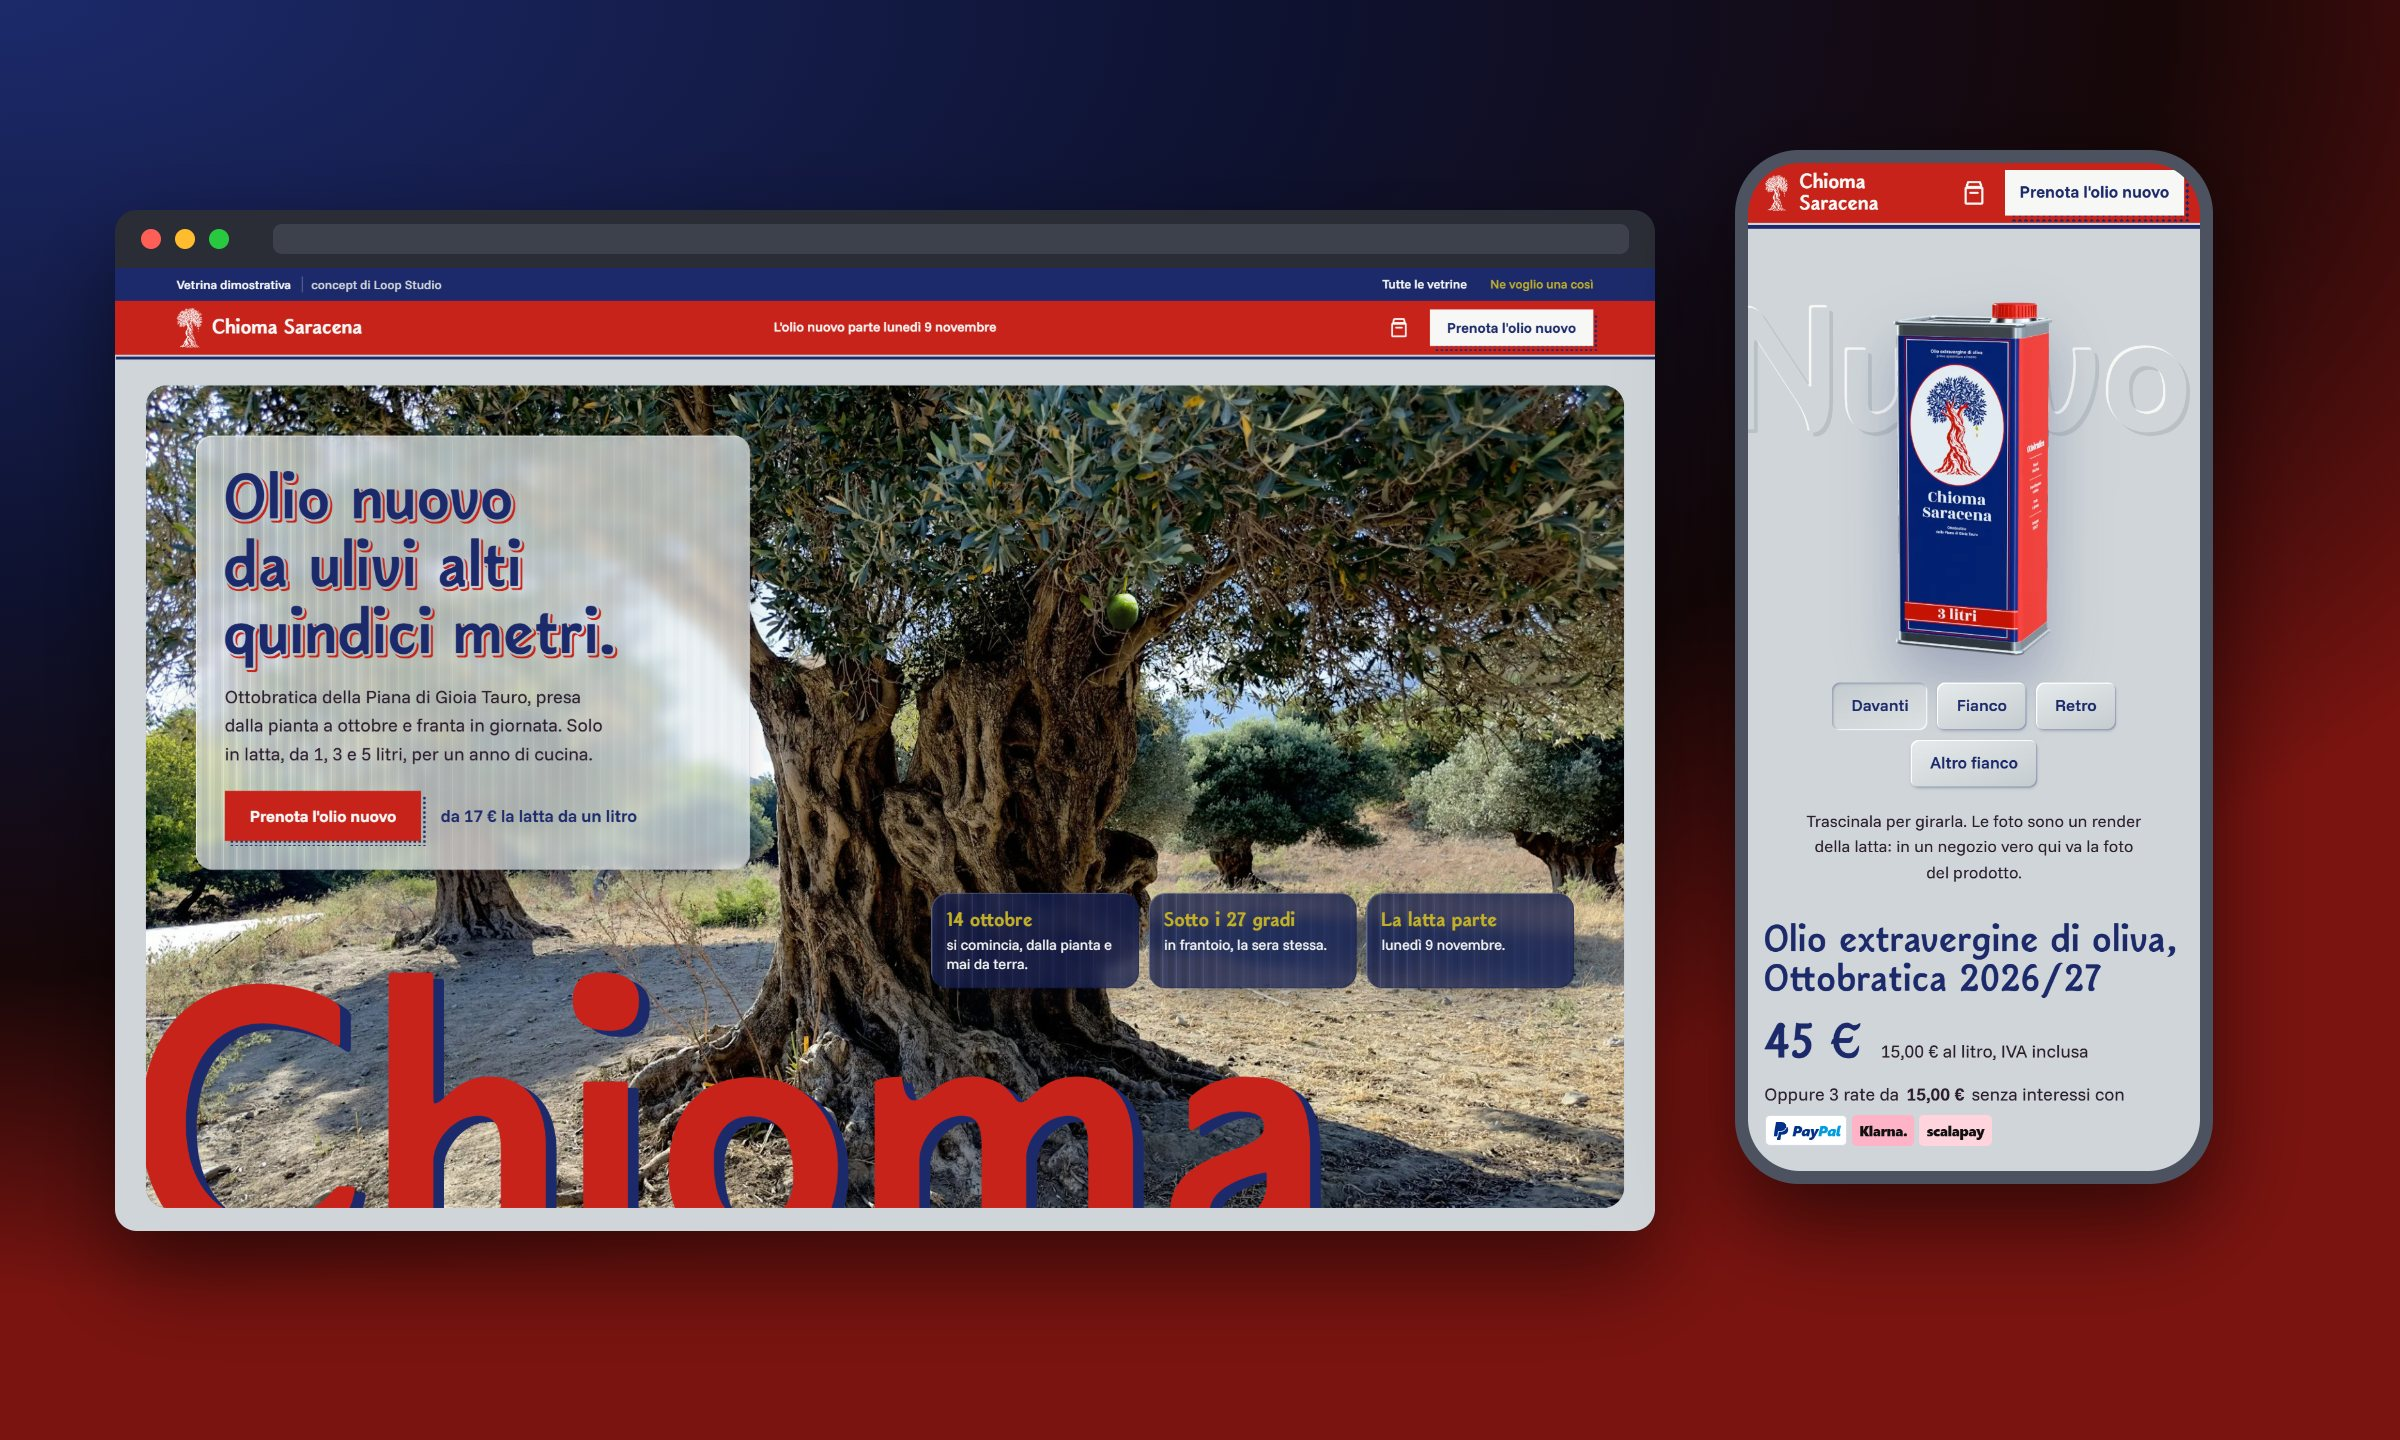
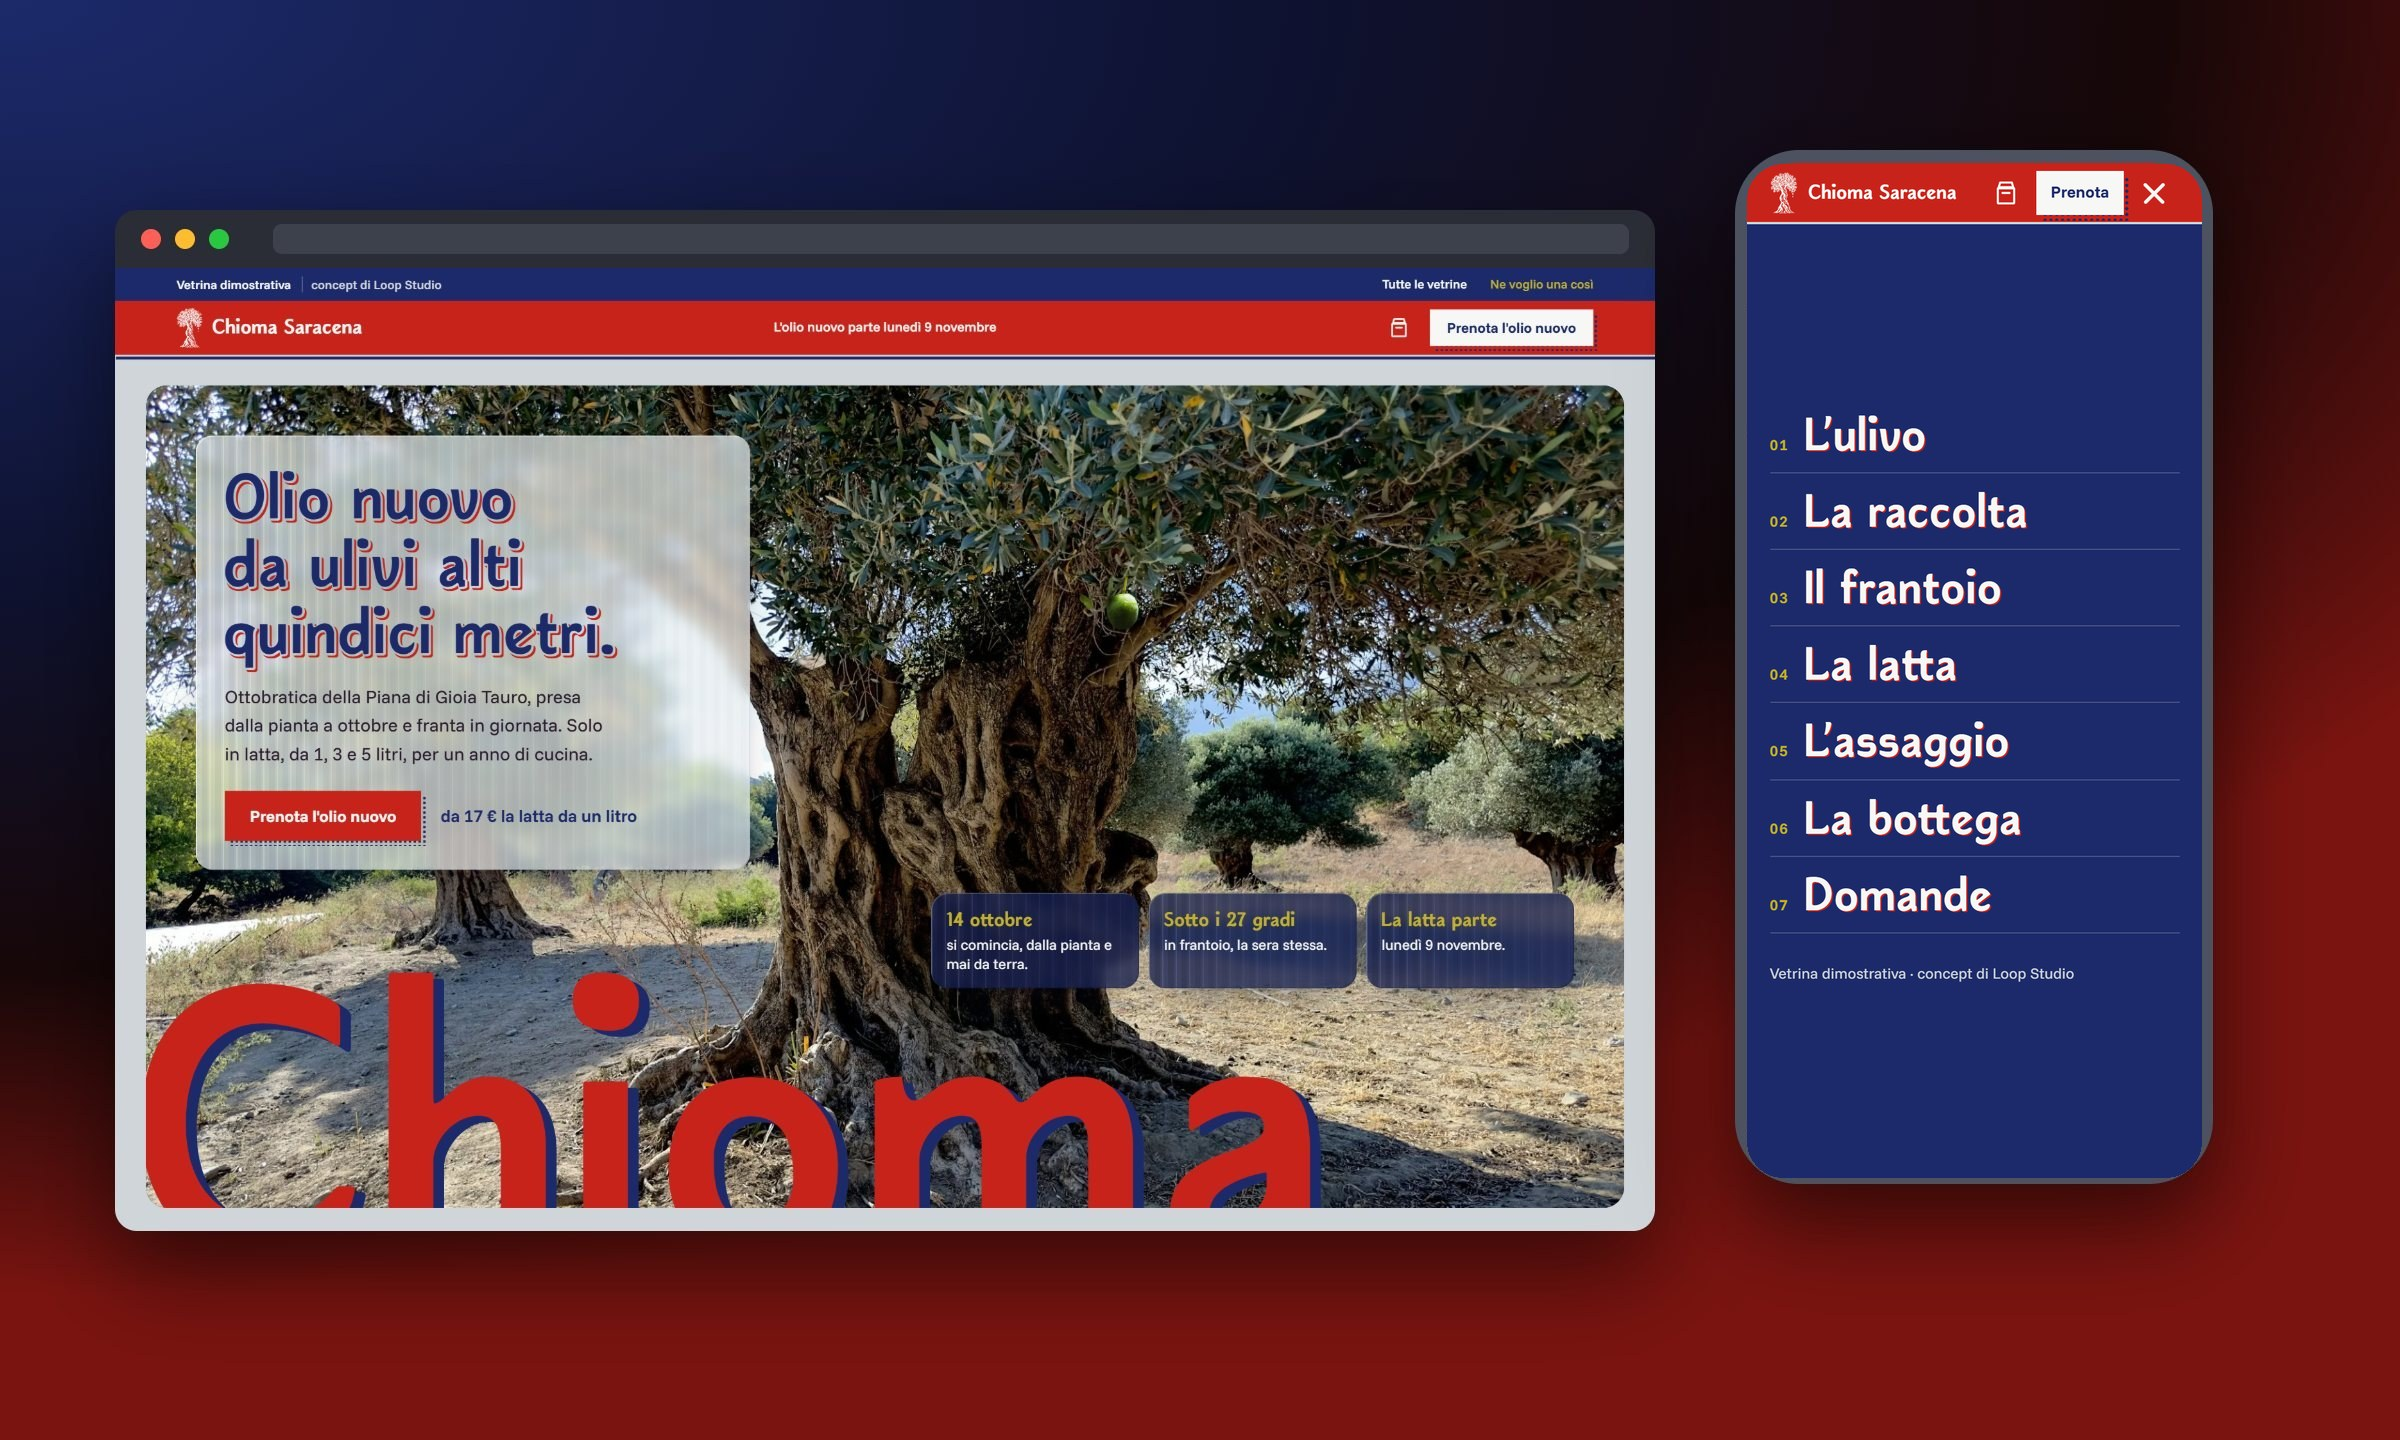
Chioma Saracena mobile: menù, parole giganti dentro lo schermo, oliva libera dal testo, goccia che cade nella latta; card e README aggiornati

Changed region(s): [[0.7188, 0.0938, 0.9375, 0.8438]]

diff --git a/CLAUDE.md b/CLAUDE.md
@@ -54,7 +54,7 @@ nella "via" in alto (a scorrimento orizzontale su telefono) e nella sezione dell
 macrocategoria (`macros` in `data.ts`). La sezione delle vetrine (`Concepts.astro`, rifatta il 2026-10-18 perché la home cresceva: 16.900 px su desktop e 20.400 su telefono con 15 vetrine) è a **una riga per macro con i livelli sulla stessa linea** (3 colonne da 900 px; sotto, carosello a scorrimento con la card dopo che si intravede), card compatte (h4, nome del livello nell'intestazione del gruppo) e **chip dei filtri fissi** sotto l'header (62 px), su una riga che scorre di lato. Ora 14.400 px su entrambi, vetrine 4.060/3.510 px. Attenzione: dentro un contenitore a scorrimento orizzontale i `.sr-only` (absolute) allargano la pagina se il contenitore non è `position: relative`; la griglia dei gruppi ha `minmax(0, 1fr)`. L'hub e le pagine `info` replicano gli stili del sito madre (repo `Loop-Studio-Web/Loop_Studio`; la cartella locale cambia da PC a PC, non è sempre `../Loop-Studio`: se non si trova, chiedere o cercare la cartella con quel remoto): header (logo 52/42 px, righe rosse al passaggio, toggle tema a pillola di vetro con sole e luna, selettore con stelle di notte e nuvole di giorno, colori del marchio, animazione solo al clic, e con etichetta; stessa copia nel Header del sito madre), footer a colonne con filo rosso animato e icone social, cursore "loop" (`src/hub/Cursore.astro`), scrollbar e selezione del testo, bottoni a 4 px. Sono COPIE, non componenti condivisi: se cambiano sul sito madre vanno riallineate a mano. Cursore e scrollbar del sito madre valgono SOLO per l'hub: i concept hanno i propri (il barbiere: forbici e scrollbar a righe). Ogni concept ha anche una pagina di dettaglio indicizzabile
 (`src/pages/<macro>/<variante>/info.astro`, 5 righe che usano `src/hub/Dettaglio.astro`; i testi sono in
 `data.ts`) da aggiungere anche in `public/sitemap.xml`. I concept restano `noindex`. I link dall'hub alle homepage dei concept si aprono in una nuova scheda (`target="_blank" rel="noopener"` + testo per lettori di schermo), così l'hub resta aperto; i link alle pagine `info` restano nella stessa scheda. La via è una scena (tutto in `Hero.astro`, CSS + SVG generati con un seme, nessuna immagine): ogni riga di categoria ha cielo, due strati di edifici, finestre, lampioni, marciapiede e strada, con parallasse allo scroll (`--p`, fermo con reduced-motion). Tema scuro = notte, chiaro = giorno. Ogni categoria ha la sua ora (`atmoDi()`, attributo `data-atmo`): Ristorazione = sera, Benessere = alba, Abitare (ex Casa e artigiani) = tramonto (cielo ambra, `tramonto` in `atmoDi`), Eventi = ora blu (blu profondo con una fascia di luce, `orablu` in `atmoDi`, variante chiara in azzurro), Tech = notte fonda (cielo quasi nero, finestre azzurre come schermi; in tema chiaro cielo lilla), E-commerce = giorno (neon lime `#c6ff3d` in `neonDi`; Ospitalità, Animali e Legale per ora sono `giorno` di riserva in `atmoDi`: a ognuna va data la sua ora quando apre la prima vetrina), righe "in cantiere" = grigio con la gru. Una riga "Stanno per aprire" prende l'ora della sua macro (non la gru). Per una nuova macro basta aggiungerla a `atmoDi` (o scegliere un'ora nuova in CSS). Sopra la via c'è il testo "Benvenuto in Loop Street" (numeri adattati a `concepts`); le categorie senza vetrine hanno `stato` in `prossime` (`'presto'` = "Stanno per aprire", `'cantiere'` = "In cantiere"; il testo parla di "stanno per aprire" solo se esiste almeno una `'presto'`). Il neon "Aperto" ha un difetto per lettera (max 3 lampi/s, fermo con reduced-motion). Sotto l'insegna c'è la mini-nav della via (`.salta` in `Hero.astro`, sticky a 62 px sotto l'header): pillole al neon, una per riga di categoria (colore = ora della riga, `neonDi()`), che SALTANO alla riga (`#via-<slug>`, posizione calcolata dallo script, nessun filtro e nessun hash) con l'accento che segue la riga in vista; sono un'altra cosa dai chip del filtro nella sezione delle vetrine. Ogni 3,5-10 s una lettera a caso di una voce a caso si "fulmina" (lettere separate dallo script; gli stili delle lettere create via JS vanno dietro `:global`). Il primo lampione di ogni riga balbetta ogni ~37 s (`lamp-guasto`, fase per riga con `--gd`). `.hero` usa `overflow: clip` (con `hidden` lo sticky non funziona) e la via ha `data-reveal-early` (si rivela appena il bordo entra, non al 12% della sua altezza). La macro "Eventi e creativi" si chiama ora solo "Eventi" (slug invariato). I titoli con `data-scramble` si decodificano all'ingresso in vista (script in `Layout.astro`, copia della logica del sito madre): mai sull'h1 (LCP mobile) e nascosti con `opacity`, non `visibility` (altrimenti saltano nell'albero di accessibilità). Ogni pagina ha anche
-il proprio menù su mobile (hub: pannello a cerchio; Trattoria: cartoncino che si srotola; Ossidiana: sipario; RistoPub: pannello che si riempie di birra; Tre Rasoi: asciugamano che si stende; Lumen: tenda che si apre sulla luce; Aeterna: scansione laser che rivela l'indice; Hot Swap: vassoio con LED; Ordito: tenda di colore con voci giganti e X di chiusura; Sifone: serranda che scende con maniglia e X; Obra Fina: tre mani di llana di colore che si stendono; Mala Hierba: cortina di papel picado che scende dall'alto; Limonaia: tovaglia che si stende con i segnaposto; Marrow & Knot: arco di marmo che sale dal basso; Chioma Saracena: nessun menù per scelta, solo la barra fissa con una CTA e il carrello).
+il proprio menù su mobile (hub: pannello a cerchio; Trattoria: cartoncino che si srotola; Ossidiana: sipario; RistoPub: pannello che si riempie di birra; Tre Rasoi: asciugamano che si stende; Lumen: tenda che si apre sulla luce; Aeterna: scansione laser che rivela l'indice; Hot Swap: vassoio con LED; Ordito: tenda di colore con voci giganti e X di chiusura; Sifone: serranda che scende con maniglia e X; Obra Fina: tre mani di llana di colore che si stendono; Mala Hierba: cortina di papel picado che scende dall'alto; Limonaia: tovaglia che si stende con i segnaposto; Marrow & Knot: arco di marmo che sale dal basso; Chioma Saracena: foglio blu che scende sotto la barra con le sezioni in Kwokwi, aggiunto il 2026-10-20 dopo il giudizio "su mobile manca il menù").
 
 - **Livelli (2026-10-07):** ogni concept ha `livello` 1/2/3 e `lingua` in `data.ts`: Essenziale · Evoluto · Esperienza, **relativi alla macrocategoria** (giudicati dal frontend percepito, non dallo stack: Ristorazione = Trattoria 1, Luppolo & Watt 2, Ossidiana 3). Cartellino a tre lampadine (`src/hub/Livello.astro`) su card della via, card delle vetrine e pagina `info`; legenda nella scena di benvenuto e sezione `Livelli.astro` ("Come scegliere", con la frase "Parti da una vetrina, non da zero"). Regole commerciali: ogni concept si vende UNA volta e poi esce dall'hub (va sostituito con uno nuovo); lo sconto NON è pubblico (varia per cliente, si dà nel preventivo); niente fasce di prezzo per livello sull'hub. Lingua come codice testuale (IT/EN/ES), mai bandiere; il prossimo progetto sarà in spagnolo (decidere il mercato). Non usare più "Low key/Medium/High" nei testi pubblici.
 

diff --git a/README.md b/README.md
@@ -323,7 +323,7 @@
 
 ### 16 · Chioma Saracena
 
-<a href="https://vetrine.theloopstudio.org/ecommerce/olio/"><img src="docs/img/card-chioma.jpg" alt="Chioma Saracena on desktop and mobile: a monumental olive tree across the whole page with the headline behind a sheet of reeded glass and the word Chioma huge in red, and on the phone the blue and red three-litre tin in the checkout, with price and instalments." width="100%"></a>
+<a href="https://vetrine.theloopstudio.org/ecommerce/olio/"><img src="docs/img/card-chioma.jpg" alt="Chioma Saracena on desktop and mobile: a monumental olive tree across the whole page with the headline behind a sheet of reeded glass and the word Chioma huge in red, and on the phone the full-screen blue menu with the sections in giant Kwokwi letters." width="100%"></a>
 
 *Olio nuovo da ulivi alti quindici metri.* A one-product shop for new olive oil in a tin, in Italian.
 
@@ -398,7 +398,7 @@ Before a concept goes on the street, it has to clear the same gate:
 | **Builds** | `astro build` is clean | ✅ | ✅ | ✅ | ✅ | ✅ | ✅ | ✅ | ✅ | ✅ | ✅ | ✅ | ✅ | ✅ | ✅ | ✅ | ✅ |
 | **Accessible** | `axe-core`: zero violations | ✅ | ✅ | ✅ | ✅ | ✅ | ✅ | ✅ | ✅ | ✅ | ✅ | ✅ | ✅ | ✅ | ✅ | ✅ | ✅ |
 | **Narrow** | No horizontal scroll at 390 px | ✅ | ✅ | ✅ | ✅ | ✅ | ✅ | ✅ | ✅ | ✅ | ✅ | ✅ | ✅ | ✅ | ✅ | ✅ | ✅ |
-| **Menu on phones** | Its own open/close effect, keyboard and Escape friendly (Chioma: none by design, a fixed bar instead) | ✅ | ✅ | ✅ | ✅ | ✅ | ✅ | ✅ | ✅ | ✅ | ✅ | ✅ | ✅ | ✅ | ✅ | ✅ | — |
+| **Menu on phones** | Its own open/close effect, keyboard and Escape friendly (Chioma: a blue sheet that slides down under the bar) | ✅ | ✅ | ✅ | ✅ | ✅ | ✅ | ✅ | ✅ | ✅ | ✅ | ✅ | ✅ | ✅ | ✅ | ✅ | ✅ |
 | **Interactive** | Widgets are exercised end to end (forms, tabs, keyboard) | ✅ | ✅ | ✅ | ✅ | ✅ | ✅ | ✅ | ✅ | ✅ | ✅ | ✅ | ✅ | ✅ | ✅ | ✅ | ✅ |
 | **Shareable** | A 1200×630 `og:image` that previews properly | ✅ | ✅ | ✅ | ✅ | ✅ | ✅ | ✅ | ✅ | ✅ | ✅ | ✅ | ✅ | ✅ | ✅ | ✅ | ✅ |
 | **Discreet** | `noindex, nofollow`, fictional data, no third-party logos | ✅ | ✅ | ✅ | ✅ | ✅ | ✅ | ✅ | ✅ | ✅ | ✅ | ✅ | ✅ | ✅ | ✅ | ✅ | ✅ |
